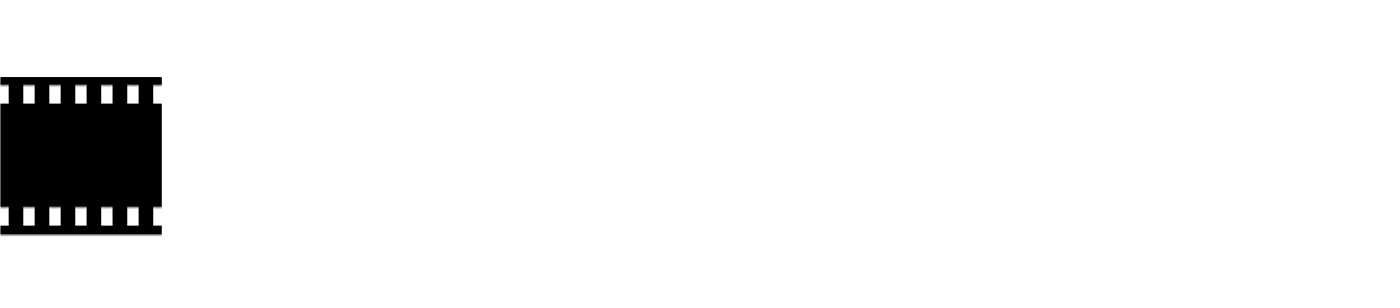
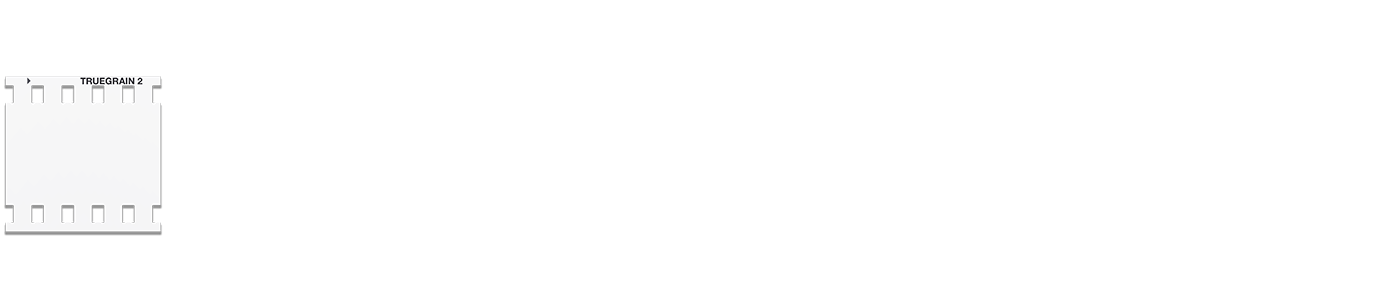
work

Changed region(s): [[0.0, 0.2338, 0.1229, 0.789]]

diff --git a/workflow.html b/workflow.html
@@ -12,7 +12,7 @@
 	<div class="container">
 
 		<div class="column span-12 first masthead">
-			<img src="gfx/masthead4.png" width="700" height="154" alt="TrueGrain 2" onclick="document.location='index.html'" /><!--<img src="gfx/masthead2.b.png" width="120" height="119" alt="now $49.95" onclick="document.location='purchase.html'" />-->
+			<img src="gfx/masthead5.png" width="700" height="154" alt="TrueGrain 2" onclick="document.location='index.html'" /><!--<img src="gfx/masthead2.b.png" width="120" height="119" alt="now $49.95" onclick="document.location='purchase.html'" />-->
 		</div>
 
 
@@ -31,13 +31,13 @@
 
 		<div class="column span-12 first">
 			<h1>Workflow</h1>
-			<p>TrueGrain supports two main workflows: one-step and two-step.</p>
-			<p>In the one-step process, you do all your image processing first with your color (or grayscale) source image outside TrueGrain. Then, as a last step, you process the image through TrueGrain.</p>
-			<p>For the two-step approach, you use TrueGrain to convert your color source image to grayscale <strong>without adding grain</strong>. Then you process the resulting grayscale image outside TrueGrain (retouch, sharpen, etc.), and return to TrueGrain for applying the grain as the final step.</p>
+			<p>TrueGrain supports two main workflows: <span class="hilite">one-step</span> and <span class="hilite">two-step</span>.</p>
+			<p>In the <span class="hilite">one-step</span> process, you do all your image processing first with your color (or grayscale) source image outside TrueGrain. Then, as a last step, you process the image through TrueGrain.</p>
+			<p>For the <span class="hilite">two-step</span> approach, you use TrueGrain to convert your color source image to grayscale <strong>without adding grain</strong>. Then you process the resulting grayscale image outside TrueGrain (retouch, sharpen, etc.), and return to TrueGrain for applying the grain as the final step.</p>
 			<p>The one-step process has the advantage of simplicity and is suitable for many applications. The two-step process provides more control. Ultimately, it is a question of whether you prefer to retouch the source image in color or converted to grayscale.</p>
 		</div>
 
-		<div class="column span-5 prepend-1 first">
+		<div class="column span-5 first">
 
 			<h2>One-step workflow</h2>
 			<ol>
@@ -49,7 +49,7 @@
 
 		</div>
 	
-		<div class="column span-5 prepend-1 last">
+		<div class="column span-5 last">
 
 			<h2>Two-step workflow</h2>
 			<ol>
@@ -63,25 +63,25 @@
 
 		<br style="clear:both;" />
 
-		<div class="column span-5 prepend-1 first">
+		<div class="column span-5 first">
 			<p class="quiet">(skip to 11)</p>
 		</div>
 
-		<div class="column span-5 prepend-1 last">
+		<div class="column span-5 last">
 
 			<ol>
-				<li value="5"><strong>Disable the Film Grain</strong></li>
-				<li><strong>Make any creative adjustments to the spectral response or dynamic range based on the real-time preview</strong></li>
-				<li><strong>Choose “Save” or “Save As” from the File menu to save your converted image without grain</strong></li>
-				<li><strong>Process the grayscale image externally, such as in Photoshop, re-saving as a TIF file when done</strong></li>
-				<li><strong>Re-load the TIF file in TrueGrain, as above</strong></li>
-				<li><strong>Enable Film Grain</strong></li>
+				<li value="5"><span class="hilite">Disable the Film Grain panel entirely</span></li>
+				<li>Make any creative adjustments to the spectral response or dynamic range based on the real-time preview</li>
+				<li>Choose “Save” or “Save As” from the File menu to save your converted image without grain</li>
+				<li>Process the grayscale image externally, such as in Photoshop, re-saving as a TIF file when done</li>
+				<li>Re-load the TIF file in TrueGrain, as above</li>
+				<li><span class="hilite">Disable Dynamic Range panel entirely</span> and <span class="hilite">re-enable the Film Grain panel</span></li>
 			</ol>
 		</div>
 
 		<br style="clear:both;" />
 
-		<div class="column span-5 prepend-1 first">
+		<div class="column span-5 first">
 
 			<ol>
 				<li value="11">On the Film Grain tab, select the desired grain scale (the default is usually 35mm, but most films go all the way up to 6x8)</li>
@@ -90,19 +90,19 @@
 			</ol>
 		</div>
 
-		<div class="column span-5 prepend-1 last">
+		<div class="column span-5 last">
 			<ol>
 				<li value="11">On the Film Grain tab, select the desired grain scale (the default is usually 35mm, but most films go all the way up to 6x8)</li>
-				<li>Make any creative adjustments to the spectral response, dynamic range, or grain scale based on the real-time preview</li>
+				<li>Make any further creative adjustments based on the real-time preview</li>
 				<li>Choose “Save” or “Save As” from the File menu to save your final image</li>
 			</ol>
 		</div>
 
 		<div class="column span-12 first">
 			<h2>Source imagery</h2>
-			<p>TrueGrain can open color or grayscale uncompressed TIF files with 8-bits or 16-bits per channel. (You may find that TrueGrain 1.0 will also load JPG and simple PSD files, but this is not officially supported.)</p>
+			<p>TrueGrain can open color or grayscale uncompressed TIF files with 8-bits or 16-bits per channel, or JPG files.</p>
 			<p>TrueGrain will honor whatever ICC profile is embedded in the source image. There is no need to deviate from whatever working space you have adopted in Photoshop or Lightroom.</p>
-			<p>In terms of color resolution, the quality of the image brought into TrueGrain for processing significantly affects the results. For example, when computing the spectral response of a given film, if the information is not in the source image, the conversion cannot be accurate. The more information in the original image the better the conversion, meaning that at an unfiltered image with 16 bits per channel is preferable.</p>
+			<p>In terms of color resolution, the quality of the image brought into TrueGrain for processing can significantly affect the results. The more information in the original image the better the conversion, meaning that at an unfiltered image with 16 bits per channel is preferable.</p>
 			<p>For most users, the optimal path will be as follows:</p>
 			<ol>
 				<li>Begin with an untouched RAW image.</li>
@@ -113,9 +113,17 @@
 		</div>
 
 		<div class="column span-12 first">
-			<p>In terms of spatial resolution, you generally want as much <em>native</em> resolution in your source imagery as possible. You can always use TrueGrain’s controls to remove resolution later, if necessary. (Removing resolution is typically only of interest once the grain gets significantly larger than one pixel in size, such as when you apply grain at 110 film size.)</p>
+			<p>In terms of spatial resolution, the amount of detail in your source image needs to have some reasonable relationship with the grain you will be applying in TrueGrain. With today’s cameras, it’s not that hard to produce an image with more detail than a film camera of comparable frame size could have ever produced. Given the grain samples in TrueGrain were scanned at 4000 dpi, <span class="hilite">the following are the theoretical maximum resoulutions you would want your source imagery to be, depending on the film size you wish to simulate:</span></p>
 
-			<p>For creative effect, it is perfectly permissible to perform your own custom grayscale conversion outside of TrueGrain. However, be sure to disable both the Spectral Response and Dynamic Range controls in the TrueGrain interface. (These controls will be automatically disabled if you load a grayscale TIF image but not if you load a desaturated RGB TIF image such as that typically exported by Lightroom.)</p>
+			<table>
+				<tr><td>110</td><td>2362 x 1732</td></tr>
+				<tr><td>135</td><td>5354 x 3465</td></tr>
+				<tr><td>6x4.5</td><td>7874 x 6250</td></tr>
+				<tr><td>6x6</td><td>7874 x 7874</td></tr>
+				<tr><td>6x8</td><td>11340 x 7874</td></tr>
+			</table>
+
+			<p>If you’re going for really large grain structure and you feel you’re seeing too much image detail amidst the grain in the TrueGrain preview, you might want to try scaling your source image down before processing it.</p>
 
 			<h2>Output imagery</h2>
 			<p>TrueGrain outputs a 16-bit monochrome TIF file with an embedded <em>Gray Gamma 2.2</em> ICC profile.</p>

diff --git a/faq.html b/faq.html
@@ -12,7 +12,7 @@
 	<div class="container">
 
 		<div class="column span-12 first masthead">
-			<img src="gfx/masthead4.png" width="700" height="154" alt="TrueGrain 2" onclick="document.location='index.html'" /><!--<img src="gfx/masthead2.b.png" width="120" height="119" alt="now $49.95" onclick="document.location='purchase.html'" />-->
+			<img src="gfx/masthead5.png" width="700" height="154" alt="TrueGrain 2" onclick="document.location='index.html'" /><!--<img src="gfx/masthead2.b.png" width="120" height="119" alt="now $49.95" onclick="document.location='purchase.html'" />-->
 		</div>
 
 
@@ -29,11 +29,24 @@
 			</ul>
 		</div>
 
-		<div class="column span-12 first">
-			<h1>FAQ</h1>
-			
+		<div class="column span-12 first last">
+			<h1>FAQ</h1>	
 		</div>
 		
+		<div class="column span-12 first last">
+			<h2>What is new in TrueGrain 2?</h2>
+			<p>TrueGrain 2 is a complete rewrite of the application. A partial list of the changes:</p>
+			<ul>
+				<li>New user interface with Retina/high-DPI display support</li>
+				<li>Memory allocation limitations of TrueGrain 1 are eliminated</li>
+				<li>Much faster in every regard</li>
+				<li>All grain samples improved with more even exposure across the frame</li>
+				<li>Five films added that were not available for TrueGrain 1</li>
+				<li>Film download manager (easier installation)</li>
+				<li>More manual control over grain expression</li>
+			</ul>
+		</div>
+
 		<div class="column span-6 first">
 			<h2>What it is</h2>
 
@@ -44,7 +57,7 @@
 			<p>The library of film stocks TrueGrain implements are detailed <a href="filmlibrary.html">here</a>.</p>
 
 			<p class="question">What does TrueGrain cost?</p>
-			<p>A single TrueGrain license costs US$49.95. Please see the <a href="purchase.html">purchase</a> page for more details.</p>
+			<p>A single TrueGrain license costs US$99.99. Please see the <a href="purchase.html">purchase</a> page for more details.</p>
 
             <p class="question"></p>
             <p class="question">Is educational pricing available for TrueGrain?</p>
@@ -52,9 +65,9 @@
 
 			<p class="question">Is volume pricing available for TrueGrain?</p>
             <p>No.</p>
-            <p class="question"></p>
+
             <p class="question">What inspired you to make TrueGrain?</p>
-		  <p>The inspiration came from necessity. Recently, we realized we could no longer get the films we were accustomed to. The majority of black and white films have gone out of production and entire manufacturers have left the film business. We decided the only way we could continue to achieve the look we got from film was by processing digital images. We went on a film hunt on eBay and bought just about everything we could find. Between that and the films we already had stockpiled, we had a good basis for TrueGrain’s “digital grain library.”</p>
+		  	<p>The inspiration came from necessity. Recently, we realized we could no longer get the films we were accustomed to. The majority of black and white films have gone out of production and entire manufacturers have left the film business. We decided the only way we could continue to achieve the look we got from film was by processing digital images. We went on a film hunt on eBay and bought just about everything we could find. Between that and the films we already had stockpiled, we had a good basis for TrueGrain’s “digital grain library.”</p>
 
 			<p class="question">Who do you see using TrueGrain?</p>
 			<p>TrueGrain is suitable for any serious professional or amateur digital photographer who seeks to produce a credibly filmic black and white image.</p>
@@ -63,10 +76,10 @@
 			<p>First, actual films are exposed and processed under an array of tightly controlled conditions. Next, the film is carefully scanned at high resolution to extract high quality film grain samples. These scans are also carefully profiled for spectral response and dynamic range. All of this data, including hundreds of megabytes of authentic grain samples up to 6x8, comprises TrueGrain’s <a href="filmlibrary.html">grain library</a>.</p>
 
 			<p class="question">Will additional films be released for TrueGrain?</p>
-			<p>When TrueGrain first entered the market, it only had six films in its library. Since then, the library has grown to sixteen films. We intend to continue to release additional films periodically, but we are not committing to any particular quantity or schedule.</p>
+			<p>When TrueGrain first entered the market, it only had six films in its library. Since then, the library has grown to twenty one films. While it is possible for us to add more films in the future, we are not at this time committing to do so.</p>
 
-			<p class="question">What if I really need a particular film and it isn’t in TrueGrain, yet?</p>
-			<p>If TrueGrain is missing a particular film stock you need, <a href="contact.html">let us know</a>. We might be able to help you. The first challenge will be to locate about five rolls or twenty 4x5 sheets of unexposed film in good condition.</p>
+			<!--<p class="question">What if I really need a particular film and it isn’t in TrueGrain, yet?</p>
+			<p>If TrueGrain is missing a particular film stock you need, <a href="contact.html">let us know</a>. We might be able to help you. The first challenge will be to locate about five rolls or twenty 4x5 sheets of unexposed film in good condition.</p>-->
 
 		</div>
 		
@@ -95,16 +108,16 @@
 			<h2>What it doesn’t do</h2>
 
 			<p class="question">Why isn’t TrueGrain a Photoshop filter plug-in?</p>
-			<p>When we developed TrueGrain, Photoshop did not support sufficient memory allocation for filter plug-ins for TrueGrain to function. We are looking into the feasibility of re-engineering TrueGrain as a Photoshop plug-in, but have not committed to doing so.</p>
+			<p>When we developed TrueGrain, Photoshop did not support sufficient memory allocation for filter plug-ins for TrueGrain to function. The Photoshop plug-in framework has continued to languish since then.</p>
 
 			<p class="question">Why isn’t TrueGrain a Lightroom plug-in?	</p>
-			<p>At this time, Adobe has not released an appropriate API for TrueGrain to be implemented as a Lightroom plug-in. In the mean time, TrueGrain works quite well with Lightroom if you configure Lightroom to use TrueGrain as an “external editor” and round-trip through TrueGrain. (Please see the <a href="workflow.html">Workflow</a> page for details.)</p>
+			<p>At this time, Adobe has not released an appropriate API for TrueGrain to be implemented as a Lightroom plug-in. In the mean time, TrueGrain integrates in a simple manner with Lightroom if you configure Lightroom to use TrueGrain as an “external editor” and round-trip through TrueGrain. (Please see the <a href="workflow.html">Workflow</a> page for details.)</p>
 
 			<p class="question">Why doesn’t TrueGrain implement color film stocks?</p>
 			<p>We are interested in the technical challenge of correctly matching color film characteristics. However, for most photographers, the aesthetic importance of color film grain is relatively low. Consequently, our current priority is to get black and white film rendering as perfect as we can.</p>
 
 			<p class="question">What about infrared?</p>
-			<p>The infrared stocks provided for TrueGrain contain genuine grain samples, but the software currently has no means to apply it accurately. Consequently, infrared grain is applied by TrueGrain as if it were some fictional non-infrared film. We are interested in directly supporting the nascent infrared digital market, but we have not gotten past the basic research, yet. If digital infrared is important to you, please <a href="contact.html">let us know</a> so that we may gauge demand.</p>
+			<p>The infrared stocks provided for TrueGrain contain genuine grain samples, but the software currently has no means to apply it accurately. Consequently, infrared grain is applied by TrueGrain as if it were some fictional non-infrared film. <!--We are interested in directly supporting the nascent infrared digital market, but we have not gotten past the basic research, yet. If digital infrared is important to you, please <a href="contact.html">let us know</a> so that we may gauge demand.--></p>
 			
 		</div>
 			

diff --git a/purchase.html b/purchase.html
@@ -12,7 +12,7 @@
 	<div class="container">
 
 		<div class="column span-12 first masthead">
-			<img src="gfx/masthead4.png" width="700" height="154" alt="TrueGrain 2" onclick="document.location='index.html'" /><!--<img src="gfx/masthead2.b.png" width="120" height="119" alt="now $49.95" />-->
+			<img src="gfx/masthead5.png" width="700" height="154" alt="TrueGrain 2" onclick="document.location='index.html'" /><!--<img src="gfx/masthead2.b.png" width="120" height="119" alt="now $49.95" />-->
 		</div>
 
 
@@ -35,9 +35,17 @@
 
 		<div class="column span-8 first">
 
-			<p>TrueGrain 2 licenses are sold through our Fastspring storefront.</p>
+			<p><span class="hilite">Before purchasing</span>, please <a href="download.html">download</a> TrueGrain 2 and try it out in demo mode.</p>
 
+			<p>TrueGrain 2 licenses are sold through our FastSpring storefront. A TrueGrain license costs US$100.</p>
+
+			<p>If you have a TrueGrain 1 license and would like a discounted upgrade to TrueGrain 2, please email us at <a href="mailto:sales@grubbasoftware.com">sales@grubbasoftware.com</a> and we will issue a discount coupon code for you. Upgrades cost US$50. [What info do we need?] </p> 
+
+			<p><a href="https://sites.fastspring.com/grubbasoftware/instant/truegrain2complete" target="_top">Click here to purchase TrueGrain 2 through FastSpring</a></p>
+
+			<!--
 			<p>If you do not have a license at all for TrueGrain 2, then you need to do one of the following:</p>
+
 
 			<ul>
 				<li>Buy the TrueGrain 2 Base Package ($50)</li>
@@ -51,9 +59,10 @@
 			<p>If you bought the base package (not the everything-included package) and you would like to purchase licenses for additional films, you can do so here:</p>
 
 			<p><a href="http://sites.fastspring.com/grubbasoftware/product/films">Purchase add-on films for the TrueGrain 2 Base license at our FastSpring store</a></p>
+			-->
+
+			<p>Once FastSpring processes your payment, you are automatically issued your license. You’ll need to double-click the license to install it. (Be sure you’ve installed TrueGrain 2 before attempting to install the license.)</p>
 			
-			<p>Once FastSpring processes your payment, you are automatically issued your license(s). You’ll need to double-click the license to install it. (Be sure you’ve installed TrueGrain 2 before attempting to install a license.)</p>
-				
 
 		</div>
 		

diff --git a/features.html b/features.html
@@ -12,7 +12,7 @@
 	<div class="container">
 
 		<div class="column span-12 first masthead">
-			<img src="gfx/masthead4.png" width="700" height="154" alt="TrueGrain 2" onclick="document.location='index.html'" /><!--<img src="gfx/masthead2.b.png" width="120" height="119" alt="now $49.95" onclick="document.location='purchase.html'" />-->
+			<img src="gfx/masthead5.png" width="700" height="154" alt="TrueGrain 2" onclick="document.location='index.html'" /><!--<img src="gfx/masthead2.b.png" width="120" height="119" alt="now $49.95" onclick="document.location='purchase.html'" />-->
 		</div>
 
 
@@ -32,12 +32,12 @@
 		<div class="column span-12 first">
 			<h1>Features</h1>
 
-			<h2>Discoverable Interface</h2>
-			<p>TrueGrain’s user interface is straightforward and requires learning few controls. We have prepared a short demonstration video as an introduction.</p>
+<!--			<h2>Discoverable Interface</h2>
+			<p>TrueGrain’s user interface is straightforward and requires learning few controls. We have prepared a short demonstration video as an introduction.</p> -->
 
 		</div>
 
-		<div class="column span-12 first" style="text-align: center; margin-bottom: 8px;">
+<!--		<div class="column span-12 first" style="text-align: center; margin-bottom: 8px;">
 
 			<a href="truegrain-video-1.2.mov"><img src="gfx/placeholder.demo2.jpg" width="768" height="480" alt="click to view movie" /></a>
 			<br />
@@ -48,7 +48,7 @@
 		<div class="column span-12 first">
 			<p>More details follow, below.</p>
 		</div>
-		
+-->		
 		<div class="column span-6 first">
 		
 			<h2>Spectral Response</h2>

diff --git a/index.html b/index.html
@@ -38,7 +38,7 @@
 	<div class="container">
 
 		<div class="column span-12 first masthead">
-			<img src="gfx/masthead4.png" width="700" height="154" alt="TrueGrain 2" />
+			<img src="gfx/masthead5.png" width="700" height="154" alt="TrueGrain 2" />
 		</div>
 
 		<div class="column span-11 prepend-1 first" id="navcontainer">
@@ -54,7 +54,7 @@
 			</ul>
 		</div>
 
-		<div class="column span-12 first">
+		<div class="column span-5 first">
 
 			<h1>Overview</h1>
 
@@ -68,6 +68,13 @@
 				<li>Add high resolution film grain information to digital images to elegantly minimize the pixilation effects of upsampling</li>
 				<li>Match digital imagery to existing film images for restoration and compositing purposes</li>
 			</ul>
+
+		</div>
+		<div class="column span-7 last">
+			<img src="gfx/ui-grab.jpg" style="width: 100%;" />
+		</div>
+
+		<div class="column span-12 first">
 			
 			<div class="column box">
 

diff --git a/filmlibrary.html b/filmlibrary.html
@@ -41,7 +41,7 @@
 </head>
 <body>
 <div class="container">  <div class="column span-12 first masthead">
-			<img src="gfx/masthead4.png" width="700" height="154" alt="TrueGrain 2" onclick="document.location='index.html'" /><!--<img src="gfx/masthead2.b.png" width="120" height="119" alt="now $49.95" onclick="document.location='purchase.html'" />-->
+			<img src="gfx/masthead5.png" width="700" height="154" alt="TrueGrain 2" onclick="document.location='index.html'" /><!--<img src="gfx/masthead2.b.png" width="120" height="119" alt="now $49.95" onclick="document.location='purchase.html'" />-->
 		</div>
   <div class="column span-11 prepend-1 first" id="navcontainer">
     <ul id="navlist">

diff --git a/contact.html b/contact.html
@@ -12,7 +12,7 @@
 	<div class="container">
 
 		<div class="column span-12 first masthead">
-			<img src="gfx/masthead4.png" width="700" height="154" alt="TrueGrain 2" onclick="document.location='index.html'" /><!--<img src="gfx/masthead2.b.png" width="120" height="119" alt="now $49.95" onclick="document.location='purchase.html'" />-->
+			<img src="gfx/masthead5.png" width="700" height="154" alt="TrueGrain 2" onclick="document.location='index.html'" /><!--<img src="gfx/masthead2.b.png" width="120" height="119" alt="now $49.95" onclick="document.location='purchase.html'" />-->
 		</div>
 
 		<div class="column span-11 prepend-1 first" id="navcontainer">

diff --git a/download.html b/download.html
@@ -12,7 +12,7 @@
 	<div class="container">
 
 		<div class="column span-12 first masthead">
-			<img src="gfx/masthead4.png" width="700" height="154" alt="TrueGrain 2" onclick="document.location='index.html'" /><!--<img src="gfx/masthead2.b.png" width="120" height="119" alt="now $49.95" onclick="document.location='purchase.html'" />-->
+			<img src="gfx/masthead5.png" width="700" height="154" alt="TrueGrain 2" onclick="document.location='index.html'" /><!--<img src="gfx/masthead2.b.png" width="120" height="119" alt="now $49.95" onclick="document.location='purchase.html'" />-->
 		</div>
 
 		<div class="column span-11 prepend-1 first" id="navcontainer">

diff --git a/install-help-macintosh.html b/install-help-macintosh.html
@@ -12,7 +12,7 @@
 	<div class="container">
 
 		<div class="column span-12 first">
-			<img src="gfx/masthead4.png" width="700" height="154" alt="TrueGrain 2" onclick="document.location='index.html'" /><!--<img src="gfx/masthead2.b.png" width="120" height="119" alt="now $49.95" onclick="document.location='purchase.html'" />-->
+			<img src="gfx/masthead5.png" width="700" height="154" alt="TrueGrain 2" onclick="document.location='index.html'" /><!--<img src="gfx/masthead2.b.png" width="120" height="119" alt="now $49.95" onclick="document.location='purchase.html'" />-->
 		</div>
 
 		<div class="column span-11 prepend-1 first" id="navcontainer">

diff --git a/install-help-windows.html b/install-help-windows.html
@@ -12,7 +12,7 @@
 	<div class="container">
 
 		<div class="column span-12 first">
-			<img src="gfx/masthead4.png" width="700" height="154" alt="TrueGrain 2" onclick="document.location='index.html'" /><!--<img src="gfx/masthead2.b.png" width="120" height="119" alt="now $49.95" onclick="document.location='purchase.html'" />-->
+			<img src="gfx/masthead5.png" width="700" height="154" alt="TrueGrain 2" onclick="document.location='index.html'" /><!--<img src="gfx/masthead2.b.png" width="120" height="119" alt="now $49.95" onclick="document.location='purchase.html'" />-->
 		</div>
 
 		<div class="column span-11 prepend-1 first" id="navcontainer">

diff --git a/press-images.html b/press-images.html
@@ -12,7 +12,7 @@
 	<div class="container">
 
 		<div class="column span-12 first">
-			<img src="gfx/masthead4.png" width="700" height="154" alt="TrueGrain 2" onclick="document.location='index.html'" /><!--<img src="gfx/masthead2.b.png" width="120" height="119" alt="now $49.95" onclick="document.location='purchase.html'" />-->
+			<img src="gfx/masthead5.png" width="700" height="154" alt="TrueGrain 2" onclick="document.location='index.html'" /><!--<img src="gfx/masthead2.b.png" width="120" height="119" alt="now $49.95" onclick="document.location='purchase.html'" />-->
 		</div>
 
 		<div class="column span-11 prepend-1 first" id="navcontainer">

diff --git a/support.html b/support.html
@@ -38,7 +38,7 @@
 	<div class="container">
 
 		<div class="column span-12">
-			<img src="gfx/masthead4.png" width="700" height="154" alt="TrueGrain 2" onclick="document.location='index.html'" /><!--<img src="gfx/masthead2.b.png" width="120" height="119" alt="now $49.95" onclick="document.location='purchase.html'" />-->
+			<img src="gfx/masthead5.png" width="700" height="154" alt="TrueGrain 2" onclick="document.location='index.html'" /><!--<img src="gfx/masthead2.b.png" width="120" height="119" alt="now $49.95" onclick="document.location='purchase.html'" />-->
 		</div>
 
 		<div class="column span-11 prepend-1" id="navcontainer">
